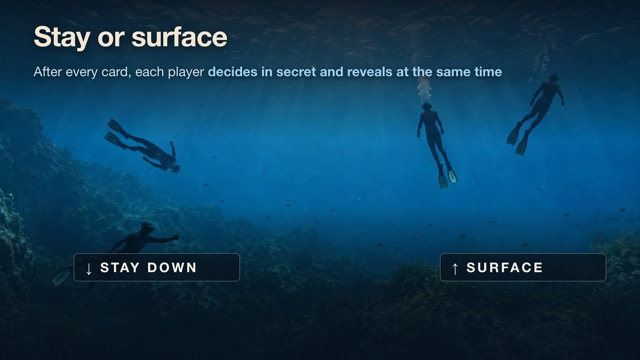
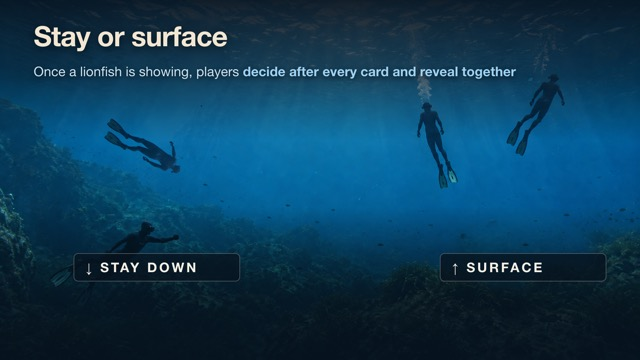
Reef Rush deck: slide 17 wording (decide once a lionfish is showing)

Changed region(s): [[0.0312, 0.1833, 0.8125, 0.2139]]

diff --git a/presentations/reef-rush/index.html b/presentations/reef-rush/index.html
@@ -127,7 +127,7 @@ body { background:#06131f; font-family:"Helvetica Neue", Helvetica, Arial, sans-
 <!-- GENERATED by build_deck.py. Edit build_deck.py, not this file. -->
 <div id="root" data-composition-id="reef-rush-v3" data-start="0" data-width="1920" data-height="1080" data-duration="400" data-fps="30">
 <!-- s01 Reef Rush -->
-<section class="clip scene" id="s01" data-start="0.000" data-duration="16.238" data-track-index="1" data-label="Reef Rush">
+<section class="clip scene" id="s01" data-start="0.000" data-duration="16.224" data-track-index="1" data-label="Reef Rush">
 <div class="glow"></div>
   <div class="kicker" id="s01-kicker" style="top:232px; font-size:40px; letter-spacing:0.35em;">BioInvaders!</div>
   <h1 class="title" id="s01-title" style="top:300px; width:1060px; font-size:150px; line-height:1;">Reef Rush</h1>
@@ -144,7 +144,7 @@ body { background:#06131f; font-family:"Helvetica Neue", Helvetica, Arial, sans-
   <div class="funding" id="s01-foot"><img src="assets/logos/eu_flag.png" alt="European Union flag">Funded by the European Union<span class="grant">Horizon Europe grant agreement No 101181413</span></div>
 </section>
 <!-- s02 The invader -->
-<section class="clip scene" id="s02" data-start="15.738" data-duration="23.378" data-track-index="2" data-label="The invader">
+<section class="clip scene" id="s02" data-start="15.724" data-duration="23.310" data-track-index="2" data-label="The invader">
 <img class="bg" src="assets/generated/slide_03_map_v2.webp" alt="" style="filter:saturate(0.88) brightness(0.86) contrast(1.03);">
   <div class="tint"></div>
   <div class="scrim-top"></div>
@@ -166,7 +166,7 @@ body { background:#06131f; font-family:"Helvetica Neue", Helvetica, Arial, sans-
   <div class="foot" id="s02-foot" style="bottom:54px;">The reefs our Greek partners dive on. <b>Every species in the game is one they meet in the sea</b></div>
 </section>
 <!-- s03 Why it's a threat -->
-<section class="clip scene" id="s03" data-start="38.616" data-duration="22.338" data-track-index="3" data-label="Why it&#x27;s a threat">
+<section class="clip scene" id="s03" data-start="38.534" data-duration="22.273" data-track-index="3" data-label="Why it&#x27;s a threat">
 <div class="glow"></div>
   <h1 class="title" id="s03-title" style="top:62px;">Why it's a threat</h1>
   <div class="threat" id="s03-t1" style="left:100px;">
@@ -186,7 +186,7 @@ body { background:#06131f; font-family:"Helvetica Neue", Helvetica, Arial, sans-
   </div>
 </section>
 <!-- s04 Invasive species this, invasive species that -->
-<section class="clip scene" id="s04" data-start="60.455" data-duration="15.235" data-track-index="4" data-label="Invasive species this, invasive species that">
+<section class="clip scene" id="s04" data-start="60.307" data-duration="15.210" data-track-index="4" data-label="Invasive species this, invasive species that">
 <img class="bg" src="assets/generated/slide_06_scrolling_figure.webp" alt="" style="filter:brightness(0.55) saturate(0.7);">
   <div class="scrim-left"></div>
   <h1 class="title" id="s04-title" style="top:150px; width:1100px; font-size:96px;">Invasive species this,<br><span class="hot">invasive species that</span></h1>
@@ -194,7 +194,7 @@ body { background:#06131f; font-family:"Helvetica Neue", Helvetica, Arial, sans-
   <div class="line" id="s04-l2" style="top:610px; width:1000px;">It stays <b>abstract</b>. It doesn't feel emotionally salient, and it doesn't motivate action</div>
 </section>
 <!-- s05 The law of apparent reality -->
-<section class="clip scene" id="s05" data-start="75.189" data-duration="16.099" data-track-index="5" data-label="The law of apparent reality">
+<section class="clip scene" id="s05" data-start="75.018" data-duration="16.052" data-track-index="5" data-label="The law of apparent reality">
 <div class="glow"></div>
   <h1 class="title" id="s05-title" style="top:62px;">The law of apparent reality</h1>
   <div class="panel" id="s05-quote" style="left:100px; top:200px; width:1000px;">
@@ -213,7 +213,7 @@ body { background:#06131f; font-family:"Helvetica Neue", Helvetica, Arial, sans-
   <div class="foot" id="s05-foot" style="bottom:54px;">The fear tracks the <b>experience</b>, not the danger</div>
 </section>
 <!-- s06 Play makes it close -->
-<section class="clip scene" id="s06" data-start="90.788" data-duration="12.632" data-track-index="6" data-label="Play makes it close">
+<section class="clip scene" id="s06" data-start="90.570" data-duration="12.596" data-track-index="6" data-label="Play makes it close">
 <img class="bg" src="assets/generated/slide_06_reef_table.webp" alt="" style="filter:brightness(0.8);">
   <div class="scrim-top"></div>
   <div class="scrim-bottom"></div>
@@ -223,7 +223,7 @@ body { background:#06131f; font-family:"Helvetica Neue", Helvetica, Arial, sans-
   <div class="foot" id="s06-foot" style="bottom:40px; font-size:40px; color:#f3e7d3;">A game puts it in your hands</div>
 </section>
 <!-- s07 Building a reef -->
-<section class="clip scene" id="s07" data-start="102.921" data-duration="13.326" data-track-index="7" data-label="Building a reef">
+<section class="clip scene" id="s07" data-start="102.666" data-duration="13.287" data-track-index="7" data-label="Building a reef">
 <img class="bg" src="assets/photos/island_santorini_full_art.webp" alt="" style="filter:brightness(0.75);">
   <div class="scrim-top"></div>
   <div class="scrim-bottom"></div>
@@ -234,7 +234,7 @@ body { background:#06131f; font-family:"Helvetica Neue", Helvetica, Arial, sans-
   <div class="line" id="s07-l2" style="top:850px; width:1200px;"><b>Human action</b> supports it, and together they are how the lionfish problem gets controlled</div>
 </section>
 <!-- s08 Card by card -->
-<section class="clip scene" id="s08" data-start="115.747" data-duration="14.366" data-track-index="8" data-label="Card by card">
+<section class="clip scene" id="s08" data-start="115.453" data-duration="14.324" data-track-index="8" data-label="Card by card">
 <img class="bg" src="assets/bga/final_reefs.webp" alt="" style="filter:brightness(0.3) saturate(0.6) blur(2px);">
   <div class="scrim-top"></div>
   <h1 class="title" id="s08-title" style="top:62px;">Card by card</h1>
@@ -245,7 +245,7 @@ body { background:#06131f; font-family:"Helvetica Neue", Helvetica, Arial, sans-
   <div class="art" id="s08-a4" style="left:1480px;"><img src="assets/art/jellyfish_full_art.webp" alt=""><span>Fried egg jellyfish</span></div>
 </section>
 <!-- s09 Working with scientists -->
-<section class="clip scene" id="s09" data-start="129.612" data-duration="12.100" data-track-index="9" data-label="Working with scientists">
+<section class="clip scene" id="s09" data-start="129.278" data-duration="12.081" data-track-index="9" data-label="Working with scientists">
 <img class="bg" src="assets/photos/s09_aegean_reef_gamba.webp" alt="Rocky reef in the Cyclades with ornate wrasse, seabreams, rabbitfish, red algae and red encrusting sponge" style="left:auto; right:0; width:1080px; filter:brightness(0.85);">
   <div class="scrim-left" style="width:1300px;"></div>
   <h1 class="title" id="s09-title" style="top:62px;">Working with scientists</h1>
@@ -257,7 +257,7 @@ body { background:#06131f; font-family:"Helvetica Neue", Helvetica, Arial, sans-
   <div class="credit" id="s09-credit">Photo: Paolo Gamba, Cyclades, CC BY 2.0</div>
 </section>
 <!-- s10 The right habitats -->
-<section class="clip scene" id="s10" data-start="141.212" data-duration="17.139" data-track-index="10" data-label="The right habitats">
+<section class="clip scene" id="s10" data-start="140.858" data-duration="17.089" data-track-index="10" data-label="The right habitats">
 <div class="glow"></div>
   <h1 class="title" id="s10-title" style="top:62px;">The right habitats</h1>
   <div class="hab" id="s10-h1" style="left:100px;">
@@ -275,7 +275,7 @@ body { background:#06131f; font-family:"Helvetica Neue", Helvetica, Arial, sans-
   <div class="foot" id="s10-foot" style="bottom:40px;">The border colour and the corner icon name the habitat. <b>Build the right mix</b></div>
 </section>
 <!-- s11 The goals of the game -->
-<section class="clip scene" id="s11" data-start="157.851" data-duration="10.206" data-track-index="11" data-label="The goals of the game">
+<section class="clip scene" id="s11" data-start="157.447" data-duration="10.177" data-track-index="11" data-label="The goals of the game">
 <div class="glow"></div>
   <h1 class="title" id="s11-title" style="top:62px;">The goals of the game</h1>
   <div class="line" id="s11-lede" style="top:186px; font-size:40px;">Three <b>shared objectives</b> pull every player towards the shape of a working ecosystem</div>
@@ -285,7 +285,7 @@ body { background:#06131f; font-family:"Helvetica Neue", Helvetica, Arial, sans-
   <div class="chip" id="s11-chip" style="left:460px; top:940px; width:1000px; height:84px;">A healthy reef is a high-scoring reef</div>
 </section>
 <!-- s12 Human action -->
-<section class="clip scene" id="s12" data-start="167.557" data-duration="17.485" data-track-index="12" data-label="Human action">
+<section class="clip scene" id="s12" data-start="167.124" data-duration="17.435" data-track-index="12" data-label="Human action">
 <img class="bg" src="assets/photos/expedition_lionfish_programme_full_art.webp" alt="" style="filter:brightness(0.7);">
   <div class="scrim-left" style="width:1400px;"></div>
   <div class="scrim-bottom"></div>
@@ -300,7 +300,7 @@ body { background:#06131f; font-family:"Helvetica Neue", Helvetica, Arial, sans-
   <div class="line" id="s12-l2" style="top:810px; width:1100px;">Build the incentive in and the culling carries on by itself</div>
 </section>
 <!-- s13 An economy around the lionfish -->
-<section class="clip scene" id="s13" data-start="184.542" data-duration="10.219" data-track-index="13" data-label="An economy around the lionfish">
+<section class="clip scene" id="s13" data-start="184.059" data-duration="10.203" data-track-index="13" data-label="An economy around the lionfish">
 <img class="bg" src="assets/generated/slide_18_products.webp" alt="" style="filter:brightness(0.85);">
   <div class="scrim-top"></div>
   <div class="scrim-bottom" style="height:520px;"></div>
@@ -314,7 +314,7 @@ body { background:#06131f; font-family:"Helvetica Neue", Helvetica, Arial, sans-
   </div>
 </section>
 <!-- s14 Push your luck -->
-<section class="clip scene" id="s14" data-start="194.261" data-duration="22.384" data-track-index="14" data-label="Push your luck">
+<section class="clip scene" id="s14" data-start="193.761" data-duration="22.274" data-track-index="14" data-label="Push your luck">
 <div class="glow"></div>
   <h1 class="title" id="s14-title" style="top:62px;">Push your luck</h1>
   <div class="shot" id="s14-shot" style="left:100px; top:200px; width:1000px; height:760px;"><img src="assets/bga/mid_game.webp" alt="" style="width:1000px; height:1000px; margin-top:-120px;"><div class="shot-cap">A shared dive on Board Game Arena, 9 September playtest</div></div>
@@ -329,7 +329,7 @@ body { background:#06131f; font-family:"Helvetica Neue", Helvetica, Arial, sans-
   </div>
 </section>
 <!-- s15 Diving the reef -->
-<section class="clip scene" id="s15" data-start="216.145" data-duration="28.578" data-track-index="15" data-label="Diving the reef">
+<section class="clip scene" id="s15" data-start="215.536" data-duration="28.437" data-track-index="15" data-label="Diving the reef">
 <div class="glow"></div>
   <h1 class="title" id="s15-title" style="top:62px;">Diving the reef</h1>
   <div id="s15-table" style="position:absolute; inset:0;">
@@ -354,7 +354,7 @@ body { background:#06131f; font-family:"Helvetica Neue", Helvetica, Arial, sans-
   </div>
 </section>
 <!-- s16 The deeper you dive -->
-<section class="clip scene" id="s16" data-start="244.223" data-duration="18.255" data-track-index="16" data-label="The deeper you dive">
+<section class="clip scene" id="s16" data-start="243.473" data-duration="18.166" data-track-index="16" data-label="The deeper you dive">
 <img class="bg" src="assets/photos/expedition_travelled_diver_full_art.webp" alt="" style="left:auto; right:0; width:1080px; filter:brightness(0.8);">
   <div class="scrim-left" style="width:1300px;"></div>
   <h1 class="title" id="s16-title" style="top:62px;">The deeper you dive</h1>
@@ -363,17 +363,17 @@ body { background:#06131f; font-family:"Helvetica Neue", Helvetica, Arial, sans-
   <div class="chip" id="s16-chip" style="left:100px; top:760px; width:960px; height:84px;">More than six venom on display and the dive busts</div>
 </section>
 <!-- s17 Stay or surface -->
-<section class="clip scene" id="s17" data-start="261.978" data-duration="9.584" data-track-index="17" data-label="Stay or surface">
+<section class="clip scene" id="s17" data-start="261.138" data-duration="10.771" data-track-index="17" data-label="Stay or surface">
 <img class="bg" src="assets/generated/slide_17_stay_or_surface.webp" alt="" style="filter:brightness(0.85);">
   <div class="scrim-top"></div>
   <div class="scrim-bottom"></div>
   <h1 class="title" id="s17-title" style="top:62px;">Stay or surface</h1>
-  <div class="line" id="s17-lede" style="top:186px; font-size:40px;">After every card, each player <b>decides in secret and reveals at the same time</b></div>
+  <div class="line" id="s17-lede" style="top:186px; font-size:40px;">Once a lionfish is showing, players <b>decide after every card and reveal together</b></div>
   <div class="pin big" id="s17-p1" style="left:220px; top:760px;">&darr;&ensp;Stay down</div>
   <div class="pin big" id="s17-p2" style="left:1320px; top:760px;">&uarr;&ensp;Surface</div>
 </section>
 <!-- s18 If you stop -->
-<section class="clip scene" id="s18" data-start="271.062" data-duration="13.713" data-track-index="18" data-label="If you stop">
+<section class="clip scene" id="s18" data-start="271.409" data-duration="13.647" data-track-index="18" data-label="If you stop">
 <img class="bg" src="assets/generated/slide_26_surfacing.webp" alt="" style="filter:brightness(0.8);">
   <div class="scrim-top"></div>
   <div class="scrim-bottom"></div>
@@ -383,7 +383,7 @@ body { background:#06131f; font-family:"Helvetica Neue", Helvetica, Arial, sans-
   <div class="line" id="s18-l1" style="top:840px; width:1100px;"><b>Surface</b>, and you take exactly one card from the display into your reef. The dive goes on without you</div>
 </section>
 <!-- s19 Natural predators -->
-<section class="clip scene" id="s19" data-start="284.275" data-duration="8.758" data-track-index="19" data-label="Natural predators">
+<section class="clip scene" id="s19" data-start="284.556" data-duration="8.717" data-track-index="19" data-label="Natural predators">
 <div class="glow"></div>
   <h1 class="title" id="s19-title" style="top:62px;">Natural predators</h1>
   <div class="line" id="s19-lede" style="top:186px; font-size:40px;">Grouper and moray are the <b>bodyguards</b> of your reef</div>
@@ -397,7 +397,7 @@ body { background:#06131f; font-family:"Helvetica Neue", Helvetica, Arial, sans-
   <div class="foot" id="s19-foot" style="bottom:54px;">They protect the cards next to them, and <b>they cannot be eaten themselves</b></div>
 </section>
 <!-- s20 Cashing in the catch -->
-<section class="clip scene" id="s20" data-start="292.533" data-duration="8.758" data-track-index="20" data-label="Cashing in the catch">
+<section class="clip scene" id="s20" data-start="292.773" data-duration="8.717" data-track-index="20" data-label="Cashing in the catch">
 <div class="glow"></div>
   <h1 class="title" id="s20-title" style="top:62px;">Cashing in the catch</h1>
   <div class="line" id="s20-lede" style="top:186px; font-size:35px;">The spearfisher removes a lionfish, but <b>selling the catch at the market is where the points are</b></div>
@@ -410,7 +410,7 @@ body { background:#06131f; font-family:"Helvetica Neue", Helvetica, Arial, sans-
   <div class="foot" id="s20-foot" style="bottom:54px;">Create market demand and <b>culling the invader becomes worth doing again and again</b></div>
 </section>
 <!-- s21 The game ends -->
-<section class="clip scene" id="s21" data-start="300.791" data-duration="15.406" data-track-index="21" data-label="The game ends">
+<section class="clip scene" id="s21" data-start="300.990" data-duration="15.361" data-track-index="21" data-label="The game ends">
 <div class="glow"></div>
   <h1 class="title" id="s21-title" style="top:62px;">The game ends</h1>
   <div class="shot" id="s21-shot" style="left:100px; top:200px; width:1000px; height:760px;"><img src="assets/bga/final_reefs_10.webp" alt="" style="width:1000px; height:1000px; margin-top:-120px;"><div class="shot-cap">Endgame reef, 9 September playtest with the Greek team</div></div>
@@ -425,7 +425,7 @@ body { background:#06131f; font-family:"Helvetica Neue", Helvetica, Arial, sans-
   </div>
 </section>
 <!-- s22 One of seven games -->
-<section class="clip scene" id="s22" data-start="315.697" data-duration="14.366" data-track-index="22" data-label="One of seven games">
+<section class="clip scene" id="s22" data-start="315.851" data-duration="14.324" data-track-index="22" data-label="One of seven games">
 <img class="bg" src="assets/photos/s22_backs.webp" alt="">
   <div class="scrim-bottom" style="height:360px;"></div>
   <div class="seven" id="s22-seven">7</div>
@@ -434,7 +434,7 @@ body { background:#06131f; font-family:"Helvetica Neue", Helvetica, Arial, sans-
   <div class="line" id="s22-l2" style="top:950px; width:1720px;">A few months in, still very much a prototype, and still changing</div>
 </section>
 <!-- s23 In person and online -->
-<section class="clip scene" id="s23" data-start="329.563" data-duration="12.979" data-track-index="23" data-label="In person and online">
+<section class="clip scene" id="s23" data-start="329.675" data-duration="12.942" data-track-index="23" data-label="In person and online">
 <div class="glow"></div>
   <h1 class="title" id="s23-title" style="top:62px;">In person and online</h1>
   <div class="shot" id="s23-a" style="left:100px; top:210px; width:840px; height:560px;"><img src="assets/generated/slide_23_three_player_dive.webp" alt="" style="width:840px; height:473px; margin-top:0;"><div class="shot-cap">Playtests round the table</div></div>
@@ -442,7 +442,7 @@ body { background:#06131f; font-family:"Helvetica Neue", Helvetica, Arial, sans-
   <div class="chip" id="s23-chip" style="left:130px; top:860px; width:1660px; height:84px; font-size:30px;">Print-and-play copies being tested by our Greek partner later this month, at a lionfish event in Santorini</div>
 </section>
 <!-- s24 The sweet spot -->
-<section class="clip scene" id="s24" data-start="342.042" data-duration="10.206" data-track-index="24" data-label="The sweet spot">
+<section class="clip scene" id="s24" data-start="342.116" data-duration="10.177" data-track-index="24" data-label="The sweet spot">
 <img class="bg" src="assets/generated/slide_24_balance_gen.webp" alt="" style="filter:brightness(0.8);">
   <div class="scrim-top"></div>
   <div class="scrim-bottom"></div>
@@ -451,7 +451,7 @@ body { background:#06131f; font-family:"Helvetica Neue", Helvetica, Arial, sans-
   <div class="foot" id="s24-foot" style="bottom:54px; font-size:36px;">Feedback from that event and other playtests tunes the economy until the feel is right</div>
 </section>
 <!-- s25 Free under Creative Commons -->
-<section class="clip scene" id="s25" data-start="351.748" data-duration="15.752" data-track-index="25" data-label="Free under Creative Commons">
+<section class="clip scene" id="s25" data-start="351.793" data-duration="15.707" data-track-index="25" data-label="Free under Creative Commons">
 <div class="glow"></div>
   <h1 class="title" id="s25-title" style="top:62px;">Free under Creative Commons</h1>
   <div class="shot" id="s25-shot" style="left:100px; top:210px; width:840px; height:473px;"><img src="assets/generated/slide_25_manual_gen.webp" alt="" style="width:840px; height:473px; margin-top:0;"></div>
@@ -509,7 +509,7 @@ body { background:#06131f; font-family:"Helvetica Neue", Helvetica, Arial, sans-
 <script>
 window.__timelines = window.__timelines || {};
 const tl = gsap.timeline({ paused: true });
-const S = {"s01": {"T": 0.0, "D": 15.738, "W": 0.3333}, "s02": {"T": 15.738, "D": 22.878, "W": 0.3333}, "s03": {"T": 38.616, "D": 21.838, "W": 0.3333}, "s04": {"T": 60.455, "D": 14.735, "W": 0.3333}, "s05": {"T": 75.189, "D": 15.599, "W": 0.3333}, "s06": {"T": 90.788, "D": 12.132, "W": 0.3333}, "s07": {"T": 102.921, "D": 12.826, "W": 0.3333}, "s08": {"T": 115.747, "D": 13.866, "W": 0.3333}, "s09": {"T": 129.612, "D": 11.6, "W": 0.3333}, "s10": {"T": 141.212, "D": 16.639, "W": 0.3333}, "s11": {"T": 157.851, "D": 9.706, "W": 0.3333}, "s12": {"T": 167.557, "D": 16.985, "W": 0.3333}, "s13": {"T": 184.542, "D": 9.719, "W": 0.3333}, "s14": {"T": 194.261, "D": 21.884, "W": 0.3333}, "s15": {"T": 216.145, "D": 28.078, "W": 0.3333}, "s16": {"T": 244.223, "D": 17.755, "W": 0.3333}, "s17": {"T": 261.978, "D": 9.084, "W": 0.3333}, "s18": {"T": 271.062, "D": 13.213, "W": 0.3333}, "s19": {"T": 284.275, "D": 8.258, "W": 0.3333}, "s20": {"T": 292.533, "D": 8.258, "W": 0.3333}, "s21": {"T": 300.791, "D": 14.906, "W": 0.3333}, "s22": {"T": 315.697, "D": 13.866, "W": 0.3333}, "s23": {"T": 329.563, "D": 12.479, "W": 0.3333}, "s24": {"T": 342.042, "D": 9.706, "W": 0.3333}, "s25": {"T": 351.748, "D": 15.252, "W": 0.3333}, "s26": {"T": 367.0, "D": 28.0, "W": 0.3333}, "s28": {"T": 395.0, "D": 5.0, "W": 0.3333}};
+const S = {"s01": {"T": 0.0, "D": 15.724, "W": 0.3333}, "s02": {"T": 15.724, "D": 22.81, "W": 0.3333}, "s03": {"T": 38.534, "D": 21.773, "W": 0.3333}, "s04": {"T": 60.307, "D": 14.71, "W": 0.3333}, "s05": {"T": 75.018, "D": 15.552, "W": 0.3333}, "s06": {"T": 90.57, "D": 12.096, "W": 0.3333}, "s07": {"T": 102.666, "D": 12.787, "W": 0.3333}, "s08": {"T": 115.453, "D": 13.824, "W": 0.3333}, "s09": {"T": 129.278, "D": 11.581, "W": 0.3333}, "s10": {"T": 140.858, "D": 16.589, "W": 0.3333}, "s11": {"T": 157.447, "D": 9.677, "W": 0.3333}, "s12": {"T": 167.124, "D": 16.935, "W": 0.3333}, "s13": {"T": 184.059, "D": 9.703, "W": 0.3333}, "s14": {"T": 193.761, "D": 21.774, "W": 0.3333}, "s15": {"T": 215.536, "D": 27.937, "W": 0.3333}, "s16": {"T": 243.473, "D": 17.666, "W": 0.3333}, "s17": {"T": 261.138, "D": 10.271, "W": 0.3333}, "s18": {"T": 271.409, "D": 13.147, "W": 0.3333}, "s19": {"T": 284.556, "D": 8.217, "W": 0.3333}, "s20": {"T": 292.773, "D": 8.217, "W": 0.3333}, "s21": {"T": 300.99, "D": 14.861, "W": 0.3333}, "s22": {"T": 315.851, "D": 13.824, "W": 0.3333}, "s23": {"T": 329.675, "D": 12.442, "W": 0.3333}, "s24": {"T": 342.116, "D": 9.677, "W": 0.3333}, "s25": {"T": 351.793, "D": 15.207, "W": 0.3333}, "s26": {"T": 367.0, "D": 28.0, "W": 0.3333}, "s28": {"T": 395.0, "D": 5.0, "W": 0.3333}};
 const at  = (id, s) => S[id].T + s;                 // seconds into a scene
 const cue = (id, n) => S[id].T + n * S[id].W;       // n words into a scene's script
 const end = (id, s) => S[id].T + S[id].D - s;       // seconds before a scene ends
